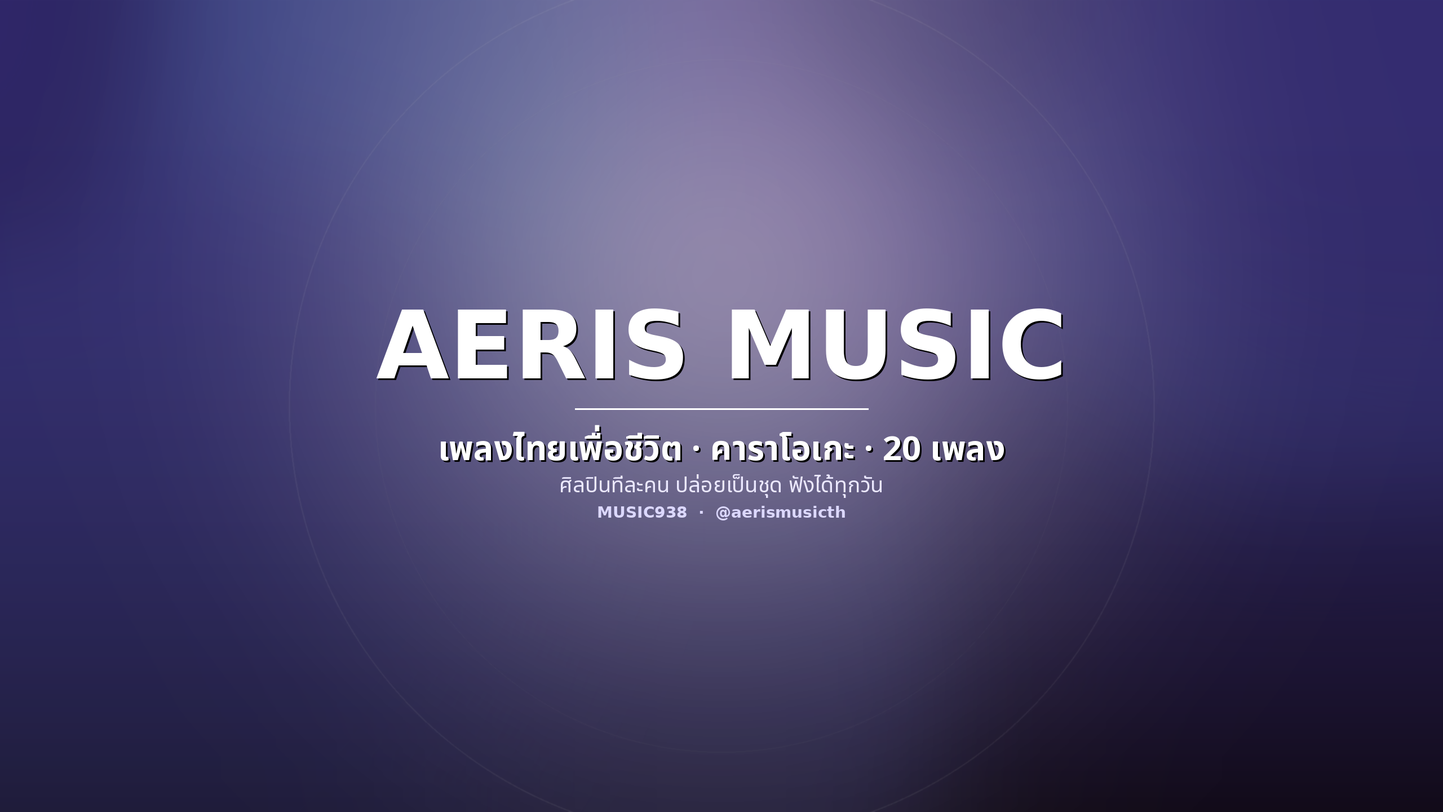
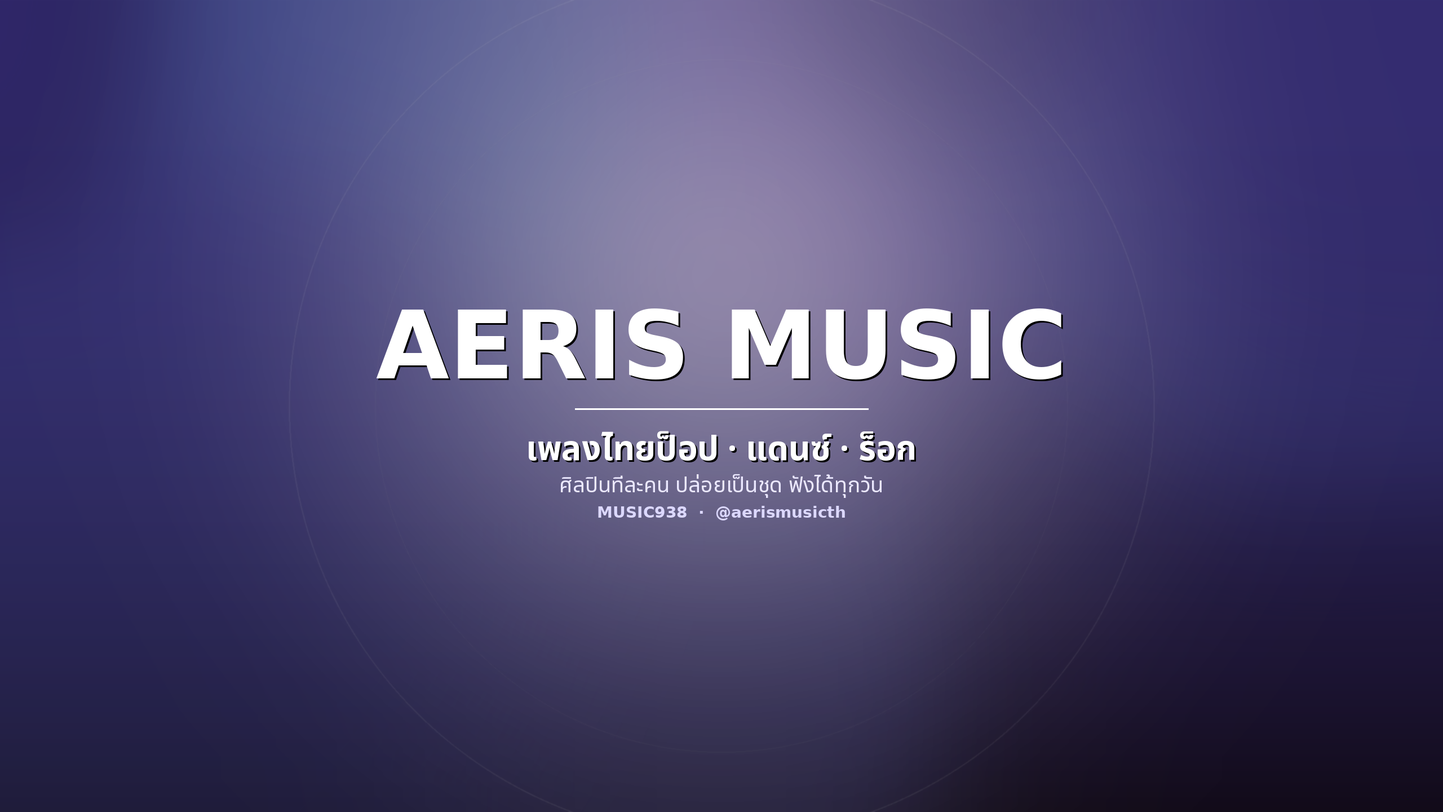
feat(music): park lukthung/phuea-chiwit, focus pop/dance/rock
K, 2026-11-13: "พักแนว ลูกทุ่ง เพื่อชีวิต ไว้ เอาแนว ป็อป แดนซ์ ร็อค".

Catalogue direction change across four layers:

- Plan: lukthung + morlam get `status: parked` in channel/genres.json.
  genres.py gains is_parked()/active(); catalogue_size() sums active only;
  --list tags parked rows. A parked genre keeps its style/tagline so its
  existing songs still resolve a sound — parking is about production.
- Capacity: a genre holds only as many songs as it has arrangements
  (ดนตรีห้ามซ้ำกัน). Parking freed 11 slots; pop 6→8, rock 6→8, edm 3→6,
  and symphonic 1→3 (it was 3-planned/1-arrangement). New test asserts
  every active genre has an arrangement per planned song.
- Production: produce_loop.THEMES drops the morlam row, adds a 2nd pop
  and rock/edm row (pool leads pop/pop/rock/rock/edm/edm). ai_lyrics
  GENRE_BRIEF gains pop/edm/synthpop/citypop/rnb so they stop falling
  back to the generic เพื่อชีวิต lyric.
- Branding off "เพื่อชีวิต": brand.py + brand_pro.py tagline, release
  HASHTAGS + all-songs playlist, compile_album default name, upload_
  compilation TITLE/TAGS, post_community captions, tags-01.txt,
  make_share_pack fallback.

Suite: 2017 passed, 0 failed (+29 checks). genres.py --check OK.

Changed region(s): [[0.3125, 0.5312, 0.7188, 0.5938]]

diff --git a/music938-1/tests/run.py b/music938-1/tests/run.py
@@ -1726,6 +1726,35 @@ def test_genres() -> None:
     for g in genres.genres():
         check(f"{g['id']}: maps to a known palette",
               genres.PALETTE_FOR.get(g["id"]) in PALETTES)
+    # K, 2026-11-13: "พักแนวลูกทุ่ง เพื่อชีวิต ไว้ เอาแนวป็อป แดนซ์ ร็อค". lukthung
+    # and morlam are parked (no new songs), and the focus genres carry the freed
+    # capacity. A parked genre must keep its style and tagline so its existing
+    # songs still resolve a sound, but must be excluded from the catalogue total
+    # and from the production pool.
+    parked = {g["id"] for g in genres.genres() if genres.is_parked(g)}
+    check("lukthung and morlam are parked",
+          {"lukthung", "morlam"} <= parked, str(parked))
+    active = {g["id"] for g in genres.active()}
+    check("a parked genre is not active",
+          not ({"lukthung", "morlam"} & active), str(active))
+    check("the catalogue total counts only active genres",
+          genres.catalogue_size() ==
+          sum(g["planned"] for g in genres.active()))
+    check("the focus genres are active",
+          {"pop", "edm", "rock"} <= active, str(sorted(active)))
+    # The focus genres must be able to hold their planned songs without reusing
+    # music (K, 2026-11-06: ดนตรีห้ามซ้ำกัน), so each needs at least one
+    # arrangement per planned song.
+    import arrangement as _A
+    sig_count = {}
+    for a in _A.signatures():
+        sig_count[a.get("genre")] = sig_count.get(a.get("genre"), 0) + 1
+    for g in genres.active():
+        check(f"{g['id']}: has an arrangement per planned song",
+              sig_count.get(g["id"], 0) >= g["planned"],
+              f"{g['id']}: {sig_count.get(g['id'], 0)} arrangements "
+              f"< {g['planned']} planned")
+
     # A `# GENRE:` id alone is not a writing brief — Gemini returns the same
     # generic เพื่อชีวิต lyric. A genre with a brief must actually reach the
     # prompt, and a genre without one must not gain a stray line.
@@ -1736,6 +1765,11 @@ def test_genres() -> None:
     rock = ai_lyrics.build_prompt({"TITLE": "t", "GENRE": "rock"})
     check("rock brief reaches the prompt",
           "แนวนำทาง" in rock and "ร็อกไทย" in rock)
+    # The focus genres must each carry a brief, or a pop/dance/rock song falls
+    # back to the generic lyric the brief exists to prevent.
+    for gid in ("pop", "edm", "synthpop", "citypop", "rnb"):
+        pr = ai_lyrics.build_prompt({"TITLE": "t", "GENRE": gid})
+        check(f"{gid} brief reaches the prompt", "แนวนำทาง" in pr)
     plain = ai_lyrics.build_prompt({"TITLE": "t", "MOOD": "sad"})
     check("a mood-only song gets no genre brief", "แนวนำทาง" not in plain)
 
@@ -2002,14 +2036,14 @@ def test_compilation() -> None:
     """
     section("compilation (watch-hour lever)")
     import compile_album
-    title = compile_album.compilation_title("รวมเพลงไทยเพื่อชีวิต", 24)
+    title = compile_album.compilation_title("รวมเพลงไทยป็อป", 24)
     check("title carries เลือกเพลงฟังได้", "เลือกเพลงฟังได้" in title, title)
     check("title states the track count", "24 เพลง" in title, title)
     check("title fits 60 chars", len(title) <= 60, f"{len(title)}")
     check("a 12-song floor is enforced", compile_album.MIN_TRACKS >= 12,
           str(compile_album.MIN_TRACKS))
     desc = compile_album.compilation_description(
-        "รวมเพลงไทยเพื่อชีวิต", ["01-khon-di-thi-chak-pai"])
+        "รวมเพลงไทยป็อป", ["01-khon-di-thi-chak-pai"])
     check("description carries a 00:00 chapter", "\n00:00 " in desc, desc[:50])
     # The compilation is the most-watched video, so its description must carry
     # the revenue ask. Before 2026-11-09 it had none, which is where the 0-click
@@ -4240,6 +4274,15 @@ def test_produce_loop() -> None:
     known = {g["id"] for g in pl.G.genres()}
     check("every theme names a planned genre",
           all(t[0] in known for t in pl.THEMES))
+    # K, 2026-11-13 parked lukthung/morlam: no theme may name a parked genre, or
+    # the loop keeps producing songs in a genre K asked to stop.
+    parked = {g["id"] for g in pl.G.genres() if pl.G.is_parked(g)}
+    check("no theme names a parked genre",
+          not any(t[0] in parked for t in pl.THEMES),
+          str([t[0] for t in pl.THEMES if t[0] in parked]))
+    check("the focus genres lead the pool",
+          {t[0] for t in pl.THEMES[:6]} == {"pop", "rock", "edm"},
+          str([t[0] for t in pl.THEMES[:6]]))
     # Rotation: a used title must not be picked again.
     first = pl.pick_theme(set())
     second = pl.pick_theme({first[2]})
@@ -4672,7 +4715,7 @@ def test_fill_playlists() -> None:
 
     cases = [
         ("คนดีที่จากไป (ท่อนที่ 2) #เพลงไทย #Shorts", "short"),
-        ("รวมเพลงไทยเพื่อชีวิต 15 เพลง (เลือกเพลงฟังได้)", "compilation"),
+        ("รวมเพลงไทยป็อป 15 เพลง (เลือกเพลงฟังได้)", "compilation"),
         ("คนดีที่จากไป — เพลงเศร้า ที่เข้าใจความเสียใจ", "song"),
     ]
     for title, want in cases:

diff --git a/music938-1/scripts/produce_loop.py b/music938-1/scripts/produce_loop.py
@@ -55,24 +55,28 @@ QUEUE = ROOT / "work" / "produce-queue.json"
 # A theme pool, one row per (genre, angle, title seed). The advisor panel
 # (2026-11-07) named this "theme-pool + seed rotator": a small curated list keeps
 # the catalogue coherent, and the queue rotates through it instead of asking a
-# model for a fresh idea each run (which drifts and duplicates).
+# model for a fresh idea each run (which drifts and duplicates). K, 2026-11-13
+# parked lukthung/morlam and set the focus to pop / dance / rock, so those three
+# lead the pool and the morlam row is gone.
 THEMES = [
+    ("pop", "รักในวันที่ธรรมดา", "วันธรรมดาที่พิเศษ", "warm", "wan-tham-mada-thi-phi-set"),
+    ("pop", "รักที่เต้นได้ในวันธรรมดา", "หัวใจเต้นตามจังหวะ", "hopeful", "huachai-ten-tam-jang-wa"),
+    ("rock", "สู้ต่อแม้ไม่มีใครเชื่อ", "ไฟที่ยังไม่ดับ", "epic", "fai-thi-yang-mai-dap"),
+    ("rock", "ลุกขึ้นยืนอีกครั้ง", "ไม่ยอมแพ้ใครอีก", "epic", "mai-yom-phae-khrai-ik"),
+    ("edm", "ปลุกใจก่อนออกไปสู้", "ลุกขึ้นแล้วไป", "epic", "luk-khuen-laeo-pai"),
+    ("edm", "ปล่อยใจไปกับจังหวะ", "คืนนี้ไม่ต้องคิดอะไร", "hopeful", "khuen-ni-mai-tong-khit-arai"),
     ("lofi", "การทำงานดึกอย่างสงบ", "คืนที่ยังไม่หลับ", "calm", "khuen-thi-yang-mai-lap"),
     ("acoustic", "ความรักเรียบง่ายในบ้านเกิด", "บ้านหลังเล็กของเรา", "warm", "ban-lang-lek-khong-rao"),
     ("citypop", "ค่ำคืนในเมืองที่ไม่เคยหลับ", "ไฟนีออนกับใจที่ล้า", "mystic", "fai-nion-kap-chai-thi-la"),
     ("synthpop", "ความฝันวัยหนุ่มสาว", "แสงสีที่ยังตามหา", "hopeful", "saeng-si-thi-yang-tam-ha"),
     ("rnb", "ความคิดถึงที่ไม่กล้าบอก", "ข้อความที่ไม่ได้ส่ง", "sad", "kho-khwam-thi-mai-dai-song"),
-    ("morlam", "กลับบ้านไปหาพ่อแม่", "กลับบ้านเถิดหล่า", "hopeful", "klap-ban-thoet-la"),
-    ("rock", "สู้ต่อแม้ไม่มีใครเชื่อ", "ไฟที่ยังไม่ดับ", "epic", "fai-thi-yang-mai-dap"),
-    ("pop", "รักในวันที่ธรรมดา", "วันธรรมดาที่พิเศษ", "warm", "wan-tham-mada-thi-phi-set"),
     ("indie", "เพื่อนเก่าที่ห่างกันไป", "เพลงที่เราเคยร้อง", "calm", "phleng-thi-rao-khoei-rong"),
-    ("edm", "ปลุกใจก่อนออกไปสู้", "ลุกขึ้นแล้วไป", "epic", "luk-khuen-laeo-pai"),
     ("jazz", "ค่ำคืนในร้านเล็ก ๆ", "แก้วสุดท้ายของคืนนี้", "mystic", "kaeo-sut-thai-khong-khuen-ni"),
     ("country", "ชีวิตชนบทที่สงบ", "ทุ่งนากับแสงเช้า", "calm", "thung-na-kap-saeng-chao"),
 ]
 
 # Each theme yields several songs before the pool runs dry. The variant is a
-# distinct angle on the same theme, not a repeat: 12 themes x 5 variants = 60
+# distinct angle on the same theme, not a repeat: 14 themes x 5 variants = 70
 # songs, which is months at one per 4h, and the slug stays readable because the
 # variant only touches the title.
 VARIANTS = [

diff --git a/music938-1/scripts/ai_lyrics.py b/music938-1/scripts/ai_lyrics.py
@@ -57,6 +57,31 @@ GENRE_BRIEF = {
         "การยืนหยัด ความผิดหวังแล้วลุกขึ้นใหม่ วรรคสั้นกระชับ เน้นจังหวะ "
         "ท่อนฮุกต้องระเบิดพลังและตะโกนตามได้"
     ),
+    "pop": (
+        "ป็อปไทย — ภาษาง่าย ฟังครั้งเดียวติดหู เรื่องรักในชีวิตประจำวัน "
+        "ความรักครั้งใหม่ ความสุขเล็ก ๆ การเต้นตามจังหวะ ฮุกสั้น ๆ ซ้ำคำ "
+        "วรรคสั้นสม่ำเสมอ ร้องตามได้ทันที"
+    ),
+    "edm": (
+        "อีดีเอ็ม/แดนซ์ — จังหวะมันส์ ปลุกให้ลุกขึ้นเต้น คำสั้น ๆ กระแทกจังหวะ "
+        "คำเชื้อเชิญให้ปล่อยใจไปกับเสียงเพลง ฮุกซ้ำ ๆ แบบตะโกนได้ "
+        "บรรทัดสั้น ๆ ให้เข้ากับบีต"
+    ),
+    "synthpop": (
+        "ซินธ์ป็อป — จังหวะสดใส ภาพแสงสียามค่ำคืน ความฝันวัยหนุ่มสาว "
+        "ความรักในเมืองใหญ่ คำทันสมัยสั้น ๆ ฮุกติดหูแบบซินธ์ "
+        "วรรคสั้นสม่ำเสมอ ร้องตามได้"
+    ),
+    "citypop": (
+        "ซิตี้ป็อป — ภาพเมืองยามค่ำคืน ไฟนีออน ถนนเปียกฝน ความรักที่ผ่านมา "
+        "ความรู้สึกอบอุ่นปนเหงา คำเรียบ ๆ ชวนฝัน ฮุกนุ่ม ๆ "
+        "วรรคยาวปานกลาง ลื่นไหล"
+    ),
+    "rnb": (
+        "อาร์แอนด์บี — นุ่ม ๆ อ่อนโยน เรื่องความรัก ความคิดถึงที่ไม่กล้าบอก "
+        "คำหวาน ๆ จังหวะช้า ๆ ฮุกนุ่ม ๆ ซ้ำได้ "
+        "วรรคสั้นปานกลาง เน้นอารมณ์และความใกล้ชิด"
+    ),
 }
 
 # Song 01 is verse8/chorus8/verse4/chorus8/bridge3/chorus8 and renders at the

diff --git a/music938-1/scripts/release.py b/music938-1/scripts/release.py
@@ -89,8 +89,8 @@ TAGLINE = {
     "mystic": "เพลงลึกลับ ชวนคิด ชวนฝัน",
     "epic": "เพลงทรงพลัง ปลุกใจให้ลุกขึ้นสู้อีกครั้ง",
 }
-HASHTAGS = ("#AERISMusic #เพลงไทย #ศิลปินไทย #เพลงใหม่ #เพลงเพื่อชีวิต "
-            "#เพลงเพราะ #ค่ายเพลงAI #AIMusic")
+HASHTAGS = ("#AERISMusic #เพลงไทย #ศิลปินไทย #เพลงใหม่ #เพลงป็อป "
+            "#เพลงแดนซ์ #เพลงร็อก #เพลงเพราะ #ค่ายเพลงAI #AIMusic")
 
 # The search-intent title tail, keyed by mood. The 2026-11-08 competitor scan
 # (10 real Thai channels, no API quota): the winning music titles lead with *when*
@@ -510,8 +510,8 @@ def playlist_for(kind: str) -> tuple[str, str]:
                 "รวมคลิปให้ความรู้ก่อนซื้อหูฟังและลำโพง พร้อมลิงก์พันธมิตร Shopee — "
                 "ดูราคา/สั่งซื้อได้จากลิงก์ในคำอธิบาย\n\n"
                 "AERIS Music · ค่ายเพลง AI")
-    return ("เพลงไทยเพื่อชีวิต — รวมทุกเพลง",
-            "รวมทุกเพลงไทยเพื่อชีวิตของ AERIS Music เนื้อร้องและทำนองใหม่\n\n"
+    return ("เพลงไทย — รวมทุกเพลง",
+            "รวมทุกเพลงไทยของ AERIS Music ป็อป แดนซ์ ร็อก เนื้อร้องและทำนองใหม่\n\n"
             "AERIS Music · ค่ายเพลง AI")
 
 

diff --git a/music938-1/scripts/compile_album.py b/music938-1/scripts/compile_album.py
@@ -11,7 +11,7 @@ A compilation reuses the songs already built, so it costs no Flow Music
 generation and no extra quota beyond one upload.
 
     python3 scripts/compile_album.py --list                 # what would go in
-    python3 scripts/compile_album.py --name "รวมเพลงไทยเพื่อชีวิต" --max 60
+    python3 scripts/compile_album.py --name "รวมเพลงไทยป็อป" --max 60
     python3 scripts/compile_album.py --name ... --max 60 --render
 """
 from __future__ import annotations
@@ -192,7 +192,7 @@ def compilation_description(name: str, slugs: list[str],
         f"⏱ รายการเพลง\n{build_chapters(slugs)}\n\n"
         f"🎧 ฟังเพลิน ๆ ได้ทั้งวัน ไม่ต้องกดเปลี่ยน\n"
         f"✨ AERIS Music — ค่ายเพลง AI\n\n"
-        f"#เพลงไทย #รวมเพลงไทย #เพลงเพื่อชีวิต #เพลงเศร้า #เพลงเพราะ "
+        f"#เพลงไทย #รวมเพลงไทย #เพลงป็อป #เพลงแดนซ์ #เพลงร็อก "
         f"#ค่ายเพลงAI #AIMusic #AERISMusic #เพลงฟังสบาย\n"
     )
 
@@ -246,7 +246,7 @@ def render(name: str, slugs: list[str], *, out_name: str | None = None,
 
 def main() -> int:
     ap = argparse.ArgumentParser(description=__doc__)
-    ap.add_argument("--name", default="รวมเพลงไทยเพื่อชีวิต")
+    ap.add_argument("--name", default="รวมเพลงไทยป็อป")
     ap.add_argument("--theme", choices=sorted(THEMES),
                     help="build a themed album from one mood set (sad/chill/power)")
     ap.add_argument("--max", type=float, default=60.0, help="target minutes")

diff --git a/music938-1/scripts/genres.py b/music938-1/scripts/genres.py
@@ -103,8 +103,22 @@ def counts() -> dict[str, int]:
     return out
 
 
+def is_parked(genre: dict) -> bool:
+    """A parked genre keeps its style and tagline but takes no new songs.
+
+    K, 2026-11-13 parked lukthung and morlam ("พักแนวลูกทุ่ง เพื่อชีวิต ไว้").
+    Its existing songs must still resolve a sound, so it stays in the plan; only
+    production and the catalogue total skip it.
+    """
+    return genre.get("status") == "parked"
+
+
+def active() -> list[dict]:
+    return [g for g in genres() if not is_parked(g)]
+
+
 def catalogue_size() -> int:
-    return sum(g["planned"] for g in genres())
+    return sum(g["planned"] for g in active())
 
 
 def main() -> int:
@@ -120,12 +134,13 @@ def main() -> int:
     total = catalogue_size()
     have = sum(built.values())
     missing = [g for g in genres() if not g.get("style") or not g.get("tagline")]
-    print(f"catalogue plan: {len(genres())} genres, {total} songs planned, "
+    print(f"catalogue plan: {len(active())} active genres, {total} songs planned, "
           f"{have} on disk")
     for g in genres():
         n = built.get(g["id"], 0)
         bar = "#" * n + "." * max(g["planned"] - n, 0)
-        print(f"  {g['id']:10s} {g['name_th']:8s} {n:2}/{g['planned']:<2} [{bar}]")
+        tag = "  [parked]" if is_parked(g) else ""
+        print(f"  {g['id']:10s} {g['name_th']:8s} {n:2}/{g['planned']:<2} [{bar}]{tag}")
     if missing:
         print(f"\n{len(missing)} genre(s) have no style or tagline: "
               f"{', '.join(g['id'] for g in missing)}", file=sys.stderr)

diff --git a/music938-1/scripts/post_community.py b/music938-1/scripts/post_community.py
@@ -31,7 +31,7 @@ STATE = ROOT / "work" / "community-state.json"
 CAPTIONS = {
     "story-intro": (
         "🎵 เปิดชุดเพลงไทย 20 เพลงเต็ม ๆ\n\n"
-        "รวมเพลงเพื่อชีวิตที่ตั้งใจทำ ทุกเพลงมีทั้งเวอร์ชันเต็มและคาราโอเกะ\n"
+        "รวมเพลงป็อป แดนซ์ ร็อก ที่ตั้งใจทำ ทุกเพลงมีทั้งเวอร์ชันเต็มและคาราโอเกะ\n"
         "กดติดตามไว้ ฟังได้ทุกวันเลยครับ 🎧"
     ),
 }
@@ -45,7 +45,7 @@ def _caption(card: Path) -> str:
     num = stem.split("-")[1] if "-" in stem else ""
     return (
         f"🎵 เพลงที่ {num} ของชุด\n\n"
-        "เพลงไทยเพื่อชีวิต ฟังเต็มได้ในช่อง มีคาราโอเกะให้ร้องตามด้วย\n"
+        "เพลงไทยป็อป แดนซ์ ร็อก ฟังเต็มได้ในช่อง มีคาราโอเกะให้ร้องตามด้วย\n"
         "ฟังแล้วเป็นยังไง คอมเมนต์บอกกันได้เลย 🎧"
     )
 

diff --git a/music938-1/scripts/brand.py b/music938-1/scripts/brand.py
@@ -39,7 +39,7 @@ SAFE_W, SAFE_H = 1546, 423
 AVATAR_SIZE = (800, 800)
 
 BRAND = "AERIS MUSIC"
-TAGLINE = "เพลงไทยเพื่อชีวิต · คาราโอเกะ · 20 เพลง"
+TAGLINE = "เพลงไทยป็อป · แดนซ์ · ร็อก"
 SUB = "ศิลปินทีละคน ปล่อยเป็นชุด ฟังได้ทุกวัน"
 
 
@@ -155,8 +155,8 @@ def make_compilation_thumb(size: tuple[int, int] = (1280, 720)) -> Path:
             draw.text((x + 4, y + 4), text, font=font, fill=(0, 0, 0, 160))
         draw.text((x, y), text, font=font, fill=fill)
 
-    center("รวมเพลงไทยเพื่อชีวิต", big, int(h * 0.20), (255, 255, 255, 255))
-    center("15 เพลง", mid, int(h * 0.50), (255, 226, 150, 245))
+    center("รวมเพลงไทย", big, int(h * 0.20), (255, 255, 255, 255))
+    center("ป็อป · แดนซ์ · ร็อก", mid, int(h * 0.50), (255, 226, 150, 245))
     center("เลือกเพลงฟังได้ · 57 นาที", small, int(h * 0.68), (238, 235, 255, 225), shadow=False)
     center("AERIS MUSIC", _font(LATIN_FONT, 34, bold=True), int(h * 0.85),
            (220, 216, 255, 190), shadow=False)

diff --git a/music938-1/scripts/upload_compilation.py b/music938-1/scripts/upload_compilation.py
@@ -25,9 +25,9 @@ COMPILED = ROOT / "library" / "compilations"
 THUMB = ROOT / "library" / "thumbs" / "thumb-compilation.png"
 STATE = ROOT / "work" / "compilation-state.json"
 
-TITLE = "รวมเพลงไทยเพื่อชีวิต 15 เพลง (เลือกเพลงฟังได้)"
-TAGS = ("เพลงไทย,รวมเพลงไทย,เพลงเพื่อชีวิต,เพลงเศร้า,เพลงเพราะ,คาราโอเกะ,"
-        "เพลงฟังสบาย,เพลงไทยเพราะๆ,เพลงไทยดัง,เพลงเก่า,AERIS Music,thai music")
+TITLE = "รวมเพลงไทยป็อป 15 เพลง (เลือกเพลงฟังได้)"
+TAGS = ("เพลงไทย,รวมเพลงไทย,เพลงป็อป,เพลงแดนซ์,เพลงร็อก,เพลงเพราะ,"
+        "เพลงฟังสบาย,เพลงไทยเพราะๆ,เพลงไทยดัง,เพลงใหม่,AERIS Music,thai music")
 
 
 def _paths(stem: str) -> tuple[Path, Path, Path]:

diff --git a/music938-1/scripts/brand_pro.py b/music938-1/scripts/brand_pro.py
@@ -49,8 +49,8 @@ SILVER = (216, 220, 226)    # #D8DCE2 soft silver — thin rules only
 TERRACOTTA = (197, 138, 104)  # #C58A68 wood / desk props
 
 BRAND = "AERIS MUSIC"
-TAGLINE = "เพลงไทยฟังสบาย · คาราโอเกะ"
-SUB = "เพลงอบอุ่น ฟังแล้วใจนุ่ม"
+TAGLINE = "เพลงไทยป็อป · แดนซ์ · ร็อก"
+SUB = "ศิลปินทีละคน ปล่อยเป็นชุด ฟังได้ทุกวัน"
 
 # The strip of a 2560x1440 banner that every surface shows (1546x423). Nothing
 # readable may be drawn outside it; the advisors were explicit that the corners

diff --git a/music938-1/scripts/forge_song.py b/music938-1/scripts/forge_song.py
@@ -16,9 +16,9 @@ Flow Music's free credits are the scarce resource (~2-3 renders/day), so the
 filter runs entirely offline of Flow: a candidate must pass `lint_sections` and
 a second AI's critique before it is allowed to cost a render.
 
-    python3 scripts/forge_song.py --genre lukthung
+    python3 scripts/forge_song.py --genre pop
     python3 scripts/forge_song.py --genre rock --slug 27-...
-    python3 scripts/forge_song.py --genre lukthung --no-render
+    python3 scripts/forge_song.py --genre pop --no-render
 """
 from __future__ import annotations
 

diff --git a/music938-1/scripts/make_share_pack.py b/music938-1/scripts/make_share_pack.py
@@ -170,7 +170,7 @@ def catalogue(extra_songs: list[str] | None = None) -> list[dict]:
             "title": ent.get("title") or lm.get("title") or slug,
             "mood": mood,
             "mood_th": MOOD_TH.get(mood, ""),
-            "genre": lm.get("genre") or "lukthung",
+            "genre": lm.get("genre") or "pop",
             "key": ent.get("key") or lm.get("key") or "",
             "tempo_bpm": int(tempo) if str(tempo).isdigit() else None,
             "voice": ent.get("voice") or lm.get("voice") or "",
